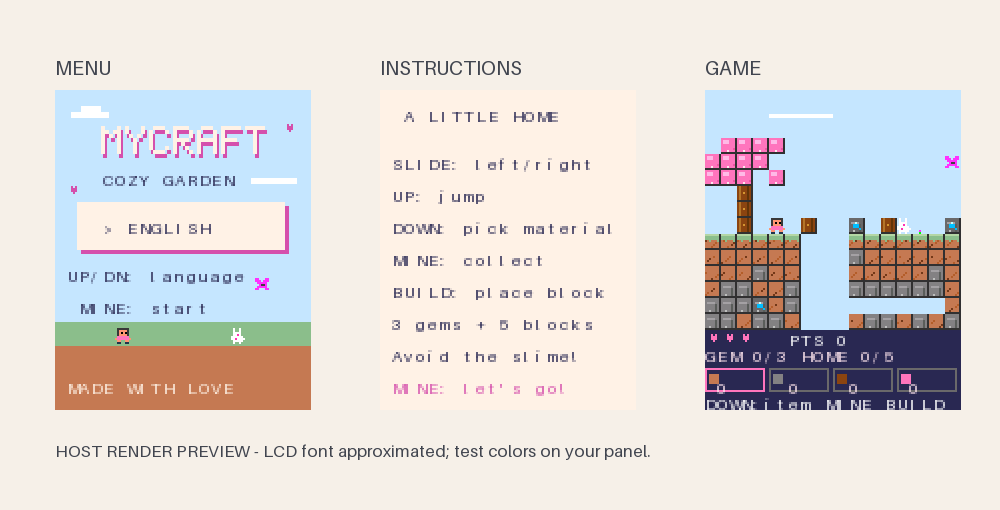
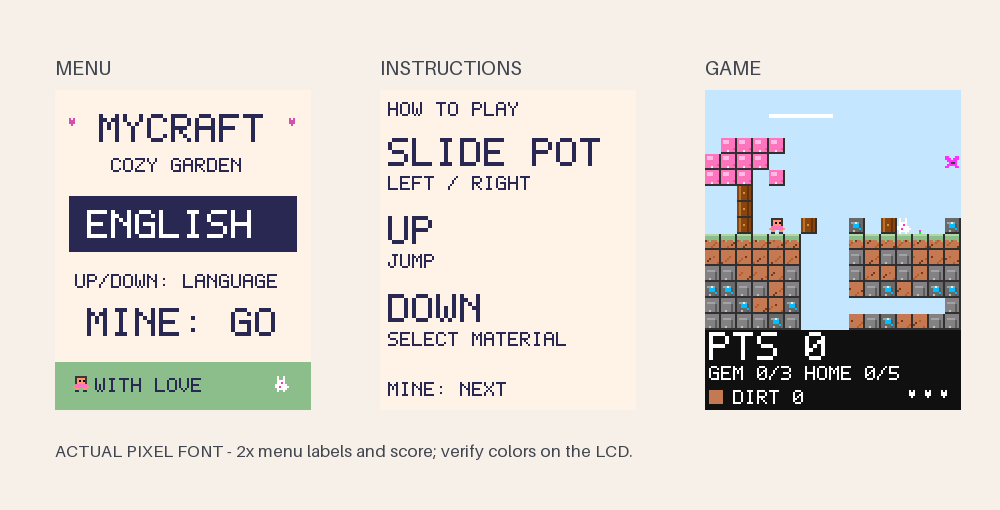
Improve LCD readability with larger high-contrast text
Embed a pixel-positioned font, split instructions into two pages,
and simplify the HUD. Verify bilingual screen text fits display bounds.

diff --git a/Lab9Main.c b/Lab9Main.c
@@ -78,8 +78,46 @@ static uint32_t tick=0;
 static uint32_t seed=0x1c44d5u;
 static uint32_t random32(void){seed^=seed<<13;seed^=seed>>17;seed^=seed<<5;return seed;}
 static const char *word(const char *en,const char *es){return lang?es:en;}
-static void str(int x,int y,const char *s,uint16_t c){ST7735_SetTextColor(c);ST7735_SetCursor(x,y);ST7735_OutString((char*)s);}
-static void number(int x,int y,uint32_t n){ST7735_SetCursor(x,y);ST7735_OutUDec(n);}
+// Fixed 5x7 pixel font; explicit pixel positioning, independent of driver cursor spacing.
+static const uint8_t font5x7[][7]={
+ {14,17,17,31,17,17,17},{30,17,17,30,17,17,30},{14,17,16,16,16,17,14},
+ {30,17,17,17,17,17,30},{31,16,16,30,16,16,31},{31,16,16,30,16,16,16},
+ {14,17,16,23,17,17,15},{17,17,17,31,17,17,17},{14,4,4,4,4,4,14},
+ {7,2,2,2,18,18,12},{17,18,20,24,20,18,17},{16,16,16,16,16,16,31},
+ {17,27,21,21,17,17,17},{17,25,21,19,17,17,17},{14,17,17,17,17,17,14},
+ {30,17,17,30,16,16,16},{14,17,17,17,21,18,13},{30,17,17,30,20,18,17},
+ {15,16,16,14,1,1,30},{31,4,4,4,4,4,4},{17,17,17,17,17,17,14},
+ {17,17,17,17,17,10,4},{17,17,17,21,21,21,10},{17,17,10,4,10,17,17},
+ {17,17,10,4,4,4,4},{31,1,2,4,8,16,31},
+ {14,17,19,21,25,17,14},{4,12,4,4,4,4,14},{14,17,1,2,4,8,31},
+ {30,1,1,14,1,1,30},{2,6,10,18,31,2,2},{31,16,16,30,1,1,30},
+ {14,16,16,30,17,17,14},{31,1,2,4,8,8,8},{14,17,17,14,17,17,14},
+ {14,17,17,15,1,1,14}};
+static void label(int x,int y,const char *text,uint16_t color,int scale){
+ for(;*text;text++,x+=6*scale){
+  unsigned char c=(unsigned char)*text;
+  if(c>='a'&&c<='z')c-=32;
+  int index=c>='A'&&c<='Z'?c-'A':c>='0'&&c<='9'?26+c-'0':-1;
+  for(int row=0;row<7;row++){
+   uint8_t bits=index>=0?font5x7[index][row]:0;
+   if(c==':')bits=(row==2||row==5)?4:0;
+   if(c=='/')bits=(row==0?1:row==1?2:row<4?4:row==4?8:16);
+   if(c=='-')bits=row==3?14:0;
+   if(c=='+')bits=row==3?14:(row==2||row==4)?4:0;
+   if(c=='>')bits=row==1?8:row==2?4:row==3?2:row==4?4:row==5?8:0;
+   if(c=='!')bits=row<5||row==6?4:0;
+   if(c=='=')bits=row==2||row==4?14:0;
+   if(c=='.')bits=row==6?4:0;
+   for(int col=0;col<5;col++)if(bits&(16>>col)){
+    int px=x+col*scale,py=y+row*scale;
+    if(px>=0&&py>=0&&px+scale<=128&&py+scale<=160)
+     ST7735_FillRect(px,py,scale,scale,color);
+   }
+  }
+ }
+}
+static void str(int x,int y,const char *s,uint16_t c){label(x*6,y*8,s,c,1);}
+static void number(int x,int y,uint32_t n){char b[12];snprintf(b,sizeof b,"%lu",(unsigned long)n);label(x*6,y*8,b,0x294A,1);}
 // Minecraft-style survival: mine materials, collect diamonds, build a shelter.
 // The potentiometer moves horizontally; UP jumps, DOWN crouches/digs downward.
 static uint8_t diamonds=0, dayPhase=0, facing=1, jumpFrames=0;
@@ -298,60 +336,40 @@ static void draw(void){
  }
  if(hudDirty){
   char line[24];
-  ST7735_FillRect(0,120,128,40,0x294A);
-  for(x=0;x<3;x++)heart(3+x*8,122,x<hp?0xFBB7:0x6B4D);
-  snprintf(line,sizeof line,"%s %u",word("PTS","PTS"),score);str(7,15,line,0xFFFF);
-  snprintf(line,sizeof line,"%s %u/3 %s %u/5",word("GEM","GEM"),diamonds,word("HOME","CASA"),built);
-  str(0,16,line,0xFF3D);
-  for(x=0;x<4;x++){
-   int px=x*32;
-   ST7735_FillRect(px,139,30,12,x==selected?0xFBB7:0x6B4D);
-   ST7735_FillRect(px+1,140,28,10,0x294A);
-   ST7735_FillRect(px+2,142,5,5,color(materials[x]));
-   number((px+10)/6,18,stock[x]);
-  }
-  str(0,19,word("DOWN:item MINE BUILD","ABA:tipo MINA CREA"),0xFFFF);
+  ST7735_FillRect(0,120,128,40,0x1082);
+  snprintf(line,sizeof line,"PTS %u",score);
+  label(2,121,line,0xFFFF,2);
+  for(x=0;x<3;x++)heart(102+x*8,150,x<hp?0xFFFF:0x6B4D);
+  snprintf(line,sizeof line,"GEM %u/3 %s %u/5",diamonds,word("HOME","CASA"),built);
+  label(2,138,line,0xFFFF,1);
+  static const char *names[2][4]={{"DIRT","STONE","WOOD","LEAVES"},{"TIERRA","PIEDRA","MADERA","HOJAS"}};
+  ST7735_FillRect(2,150,7,7,color(materials[selected]));
+  snprintf(line,sizeof line,"%s %u",names[lang][selected],stock[selected]);
+  label(14,150,line,0xFFFF,1);
   hudDirty=0;
  }
 
 }
-static void title(void){
- // Original 5x7 lettering, scaled 2x: crisp and readable on a 128px LCD.
- static const uint8_t glyph[7][7]={
- {17,27,21,17,17,17,17}, {17,17,10,4,4,4,4},
- {14,17,16,16,16,17,14}, {30,17,17,30,20,18,17},
- {14,17,17,31,17,17,17}, {31,16,16,30,16,16,16},
- {31,4,4,4,4,4,4}};
- for(int g=0;g<7;g++)for(int y=0;y<7;y++)for(int x=0;x<5;x++)if(glyph[g][y]&(16>>x)){
-  ST7735_FillRect(24+g*12+x*2,20+y*2,2,2,0xD295);
-  ST7735_FillRect(23+g*12+x*2,18+y*2,2,2,0xFF9C);
- }
-}
 static void menu(void){
- ST7735_FillScreen(0xC73F);
- ST7735_FillRect(0,116,128,44,0x8DF1);
- ST7735_FillRect(0,128,128,32,0xC3CA);
- ST7735_FillRect(8,11,19,3,0xFFFF);ST7735_FillRect(13,8,10,3,0xFFFF);
- ST7735_FillRect(98,44,23,3,0xFFFF);
- title();str(4,5,word("COZY GARDEN","JARDIN FELIZ"),0x294A);
- ST7735_FillRect(13,58,104,24,0xD295);
- ST7735_FillRect(11,56,104,24,0xFF9C);
- str(4,8,lang?"> ESPANOL":"> ENGLISH",0x294A);
- str(1,11,word("UP/DN: language","ARR/ABA: idioma"),0x294A);
- str(2,13,word("MINE: start","MINA: iniciar"),0x294A);
- sprite8(30,119,minerArt,0);sprite8(88,119,rabbitArt,2);
- sprite8(100,93,butterflyArt,3);
- heart(8,48,0xD295);heart(116,17,0xD295);
- str(1,18,word("MADE WITH LOVE","HECHO CON AMOR"),0xFF9C);
+ ST7735_FillScreen(0xFF9C);
+ label(22,12,"MYCRAFT",0x294A,2);
+ label(28,34,word("COZY GARDEN","JARDIN FELIZ"),0x294A,1);
+ ST7735_FillRect(7,53,114,28,0x294A);
+ label(16,60,lang?"ESPANOL":"ENGLISH",0xFFFF,2);
+ label(10,92,word("UP/DOWN: LANGUAGE","ARR/ABA: IDIOMA"),0x294A,1);
+ label(16,109,word("MINE: GO","MINA: IR"),0x294A,2);
+ heart(7,14,0xD295);heart(117,14,0xD295);
+ ST7735_FillRect(0,136,128,24,0x8DF1);
+ sprite8(9,143,minerArt,0);sprite8(110,143,rabbitArt,2);
+ label(20,144,word("WITH LOVE","CON AMOR"),0x294A,1);
 }
 static void endScreen(uint8_t win){
- int i;
- ST7735_FillScreen(win?0xC73F:0x0000);
- for(i=0;i<9;i++)heart((i*13)%124,8+(i*17)%100,0xF99F);
- str(1,5,win?word("HOME IS BUILT!","HOGAR LISTO!"):word("GAME OVER","FIN DEL JUEGO"),win?0x001F:PINK);
- str(2,8,word("SCORE:","PUNTOS:"),win?0x0000:0xFFFF);number(10,8,score);
- str(1,12,word("MADE WITH LOVE","HECHO CON AMOR"),win?0xF81F:0xFFFF);
- str(1,16,word("MINE: RESTART","MINA: REINICIA"),win?0x0000:GOLD);
+ char line[16];ST7735_FillScreen(0xFF9C);
+ label(10,16,win?word("YOU WIN!","GANASTE!"):word("GAME OVER","FIN JUEGO"),0x294A,2);
+ label(28,51,word("SCORE","PUNTOS"),0x294A,2);
+ snprintf(line,sizeof line,"%u",score);label(28,74,line,0x294A,2);
+ label(16,110,word("MINE: MENU","MINA: MENU"),0x294A,1);
+ label(16,140,word("MADE WITH LOVE","HECHO CON AMOR"),0x294A,1);
 }
 static void update(uint32_t buttons,uint32_t edges,uint32_t adc){
  int nx=playerX,tx,ty;
@@ -418,17 +436,27 @@ static void update(uint32_t buttons,uint32_t edges,uint32_t adc){
  (void)buttons;
 }
 
+static uint8_t helpPage;
 static void instructions(void){
  ST7735_FillScreen(0xFF9C);
- str(2,1,word("A LITTLE HOME","UN HOGAR PEQUENO"),0x294A);
- str(1,4,word("SLIDE: left/right","POT: izq/derecha"),0x294A);
- str(1,6,word("UP: jump","ARRIBA: saltar"),0x294A);
- str(1,8,word("DOWN: pick material","ABAJO: material"),0x294A);
- str(1,10,word("MINE: collect","MINA: recoger"),0x294A);
- str(1,12,word("BUILD: place block","CREA: poner bloque"),0x294A);
- str(1,14,word("3 gems + 5 blocks","3 gemas + 5 bloques"),0x294A);
- str(1,16,word("Avoid the slime!","Evita la baba!"),0x294A);
- str(1,18,word("MINE: let's go!","MINA: jugar!"),0xD295);
+ label(4,6,word("HOW TO PLAY","COMO JUGAR"),0x294A,1);
+ if(helpPage==0){
+  label(4,24,word("SLIDE POT","POT"),0x294A,2);
+  label(4,43,word("LEFT / RIGHT","IZQUIERDA / DERECHA"),0x294A,1);
+  label(4,63,word("UP","ARRIBA"),0x294A,2);
+  label(4,82,word("JUMP","SALTAR"),0x294A,1);
+  label(4,102,word("DOWN","ABAJO"),0x294A,2);
+  label(4,121,word("SELECT MATERIAL","ELEGIR MATERIAL"),0x294A,1);
+  label(4,146,word("MINE: NEXT","MINA: SIGUIENTE"),0x294A,1);
+ }else{
+  label(4,24,word("MINE","MINA"),0x294A,2);
+  label(4,43,word("COLLECT BLOCKS","RECOGER BLOQUES"),0x294A,1);
+  label(4,63,word("BUILD","CREA"),0x294A,2);
+  label(4,82,word("PLACE A BLOCK","PONER UN BLOQUE"),0x294A,1);
+  label(4,104,word("GOAL","META"),0x294A,2);
+  label(4,123,word("3 GEMS + 5 BLOCKS","3 GEMAS + 5 BLOQUES"),0x294A,1);
+  label(4,146,word("MINE: PLAY","MINA: JUGAR"),0x294A,1);
+ }
 }
 int main5(void){
  Input in; uint8_t redraw=0;
@@ -443,9 +471,9 @@ int main5(void){
   while(pop(&in)){
    if(state==0){
     if(in.edges&(UP|DOWN)){lang^=1;menu();}
-    if(in.edges&MINE){state=4;instructions();}
+    if(in.edges&MINE){state=4;helpPage=0;instructions();}
    }else if(state==4){
-    if(in.edges&MINE){worldInit();state=1;redraw=1;}
+    if(in.edges&MINE){if(!helpPage){helpPage=1;instructions();}else{worldInit();state=1;redraw=1;}}
    }else if(state==1){
     tick++;update(in.held,in.edges,in.adc);if(state==1)redraw=1;else redraw=0;
    }else if(in.edges&MINE){state=0;menu();}
@@ -469,7 +497,7 @@ int main0(void){ // ADC only: move the pot through its full travel.
 int main1(void){ // All text screens in both languages, no game timer.
  testInit();
  for(;;)for(lang=0;lang<2;lang++){
-  menu();Clock_Delay1ms(2500);instructions();Clock_Delay1ms(4000);
+  menu();Clock_Delay1ms(2500);helpPage=0;instructions();Clock_Delay1ms(4000);helpPage=1;instructions();Clock_Delay1ms(4000);
   worldInit();draw();Clock_Delay1ms(2500);
   endScreen(1);Clock_Delay1ms(2500);endScreen(0);Clock_Delay1ms(2500);
  }

diff --git a/tests/run.py b/tests/run.py
@@ -4,6 +4,7 @@ root=Path(__file__).resolve().parents[1]
 s=root.joinpath('Lab9Main.c').read_text()
 s='\n'.join(l for l in s.splitlines() if not l.startswith('#include'))
 s=s.replace('int main(void)','int firmware_main(void)')
+s=s.replace('for(;*text;text++,x+=6*scale){', 'assert(x>=0 && y>=0 && x+(int)strlen(text)*6*scale-scale<=128 && y+7*scale<=160); for(;*text;text++,x+=6*scale){')
 stub=r'''
 #include <stdint.h>
 #include <stdio.h>
@@ -76,7 +77,8 @@ int main(void){
    if(i%8==0)draw();
   }
  }
- lang=0;menu();capture("menu");
+ for(lang=0;lang<2;lang++){ menu();helpPage=0;instructions();helpPage=1;instructions();score=65535;endScreen(1);endScreen(0);worldInit();draw();}
+ lang=0;helpPage=0;menu();capture("menu");
  instructions();capture("instructions");
  worldInit();ST7735_FillScreen(0xC73F);draw();capture("game");
  puts("PASS: debounce, queue overflow, recycling, gems, win/loss, reset, randomized bounds and building counts");

diff --git a/tests/preview.py b/tests/preview.py
@@ -9,5 +9,5 @@ for idx,name in enumerate(['menu','instructions','game']):
   for j,ch in enumerate(txt):draw.text((int(x)+j*6,int(y)),ch,font=font,fill=color)
  canv.paste(im.resize((256,320),Image.Resampling.NEAREST),(55+idx*325,90))
  d.text((55+idx*325,55),name.upper(),font=ImageFont.load_default(size=20),fill='#41454f')
-d.text((55,440),'HOST RENDER PREVIEW - LCD font approximated; test colors on your panel.',font=ImageFont.load_default(size=17),fill='#41454f')
+d.text((55,440),'ACTUAL PIXEL FONT - 2x menu labels and score; verify colors on the LCD.',font=ImageFont.load_default(size=17),fill='#41454f')
 canv.save(p/'MyCraft_Preview.png')

diff --git a/README.md b/README.md
@@ -53,3 +53,7 @@ Set MYCRAFT_TEST_MODE in Lab9Main.c to 0 (ADC), 1 (languages), 2 (tiles and anim
 The existing repository ZIP is the historical starter project. The root source files here are the current overrides: copy them into your existing project as directed above. Do not expect the historical ZIP to contain these updates.
 
 See REQUIREMENTS.md for the rubric audit and VIDEO_PLAN.md for the required recording outline. Neither host tests nor adding test entry points is evidence that hardware checkout was completed.
+
+
+## Readability update
+The game uses an embedded 5x7 font with exact pixel placement. Main menu choices, action labels and score are 2x size (10x14 glyphs with 12px advance). Small supporting text is dark on cream or white on a dark HUD. Instructions now have two pages; press MINE to advance and again to play. The HUD shows score, progress and only the selected material, removing crowded inventory boxes. No new header is required for this font; it is embedded in Lab9Main.c.
